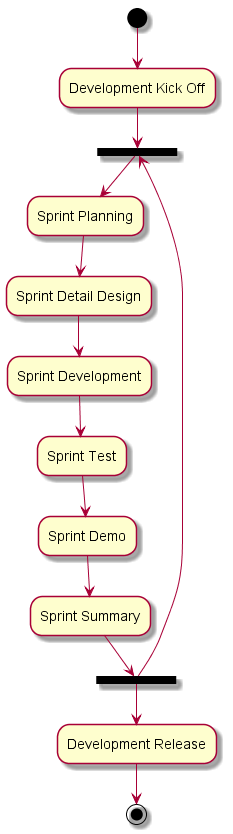
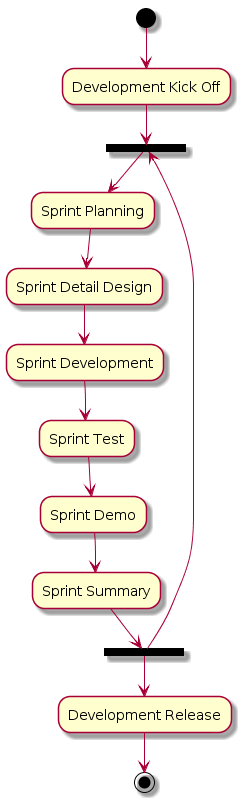
Add overall chapter

diff --git a/2_process/Process_For_Development/Process_For_Service_1.0.0/source/00_overall.rst b/2_process/Process_For_Development/Process_For_Service_1.0.0/source/00_overall.rst
@@ -26,3 +26,7 @@ Goal
 
 
 .. 解释这个文档中会涉及到的一些专业属于，如何让别人很容易文档中所描述的。
+
+Process
+****************************
+.. image:: images/Overall.png
